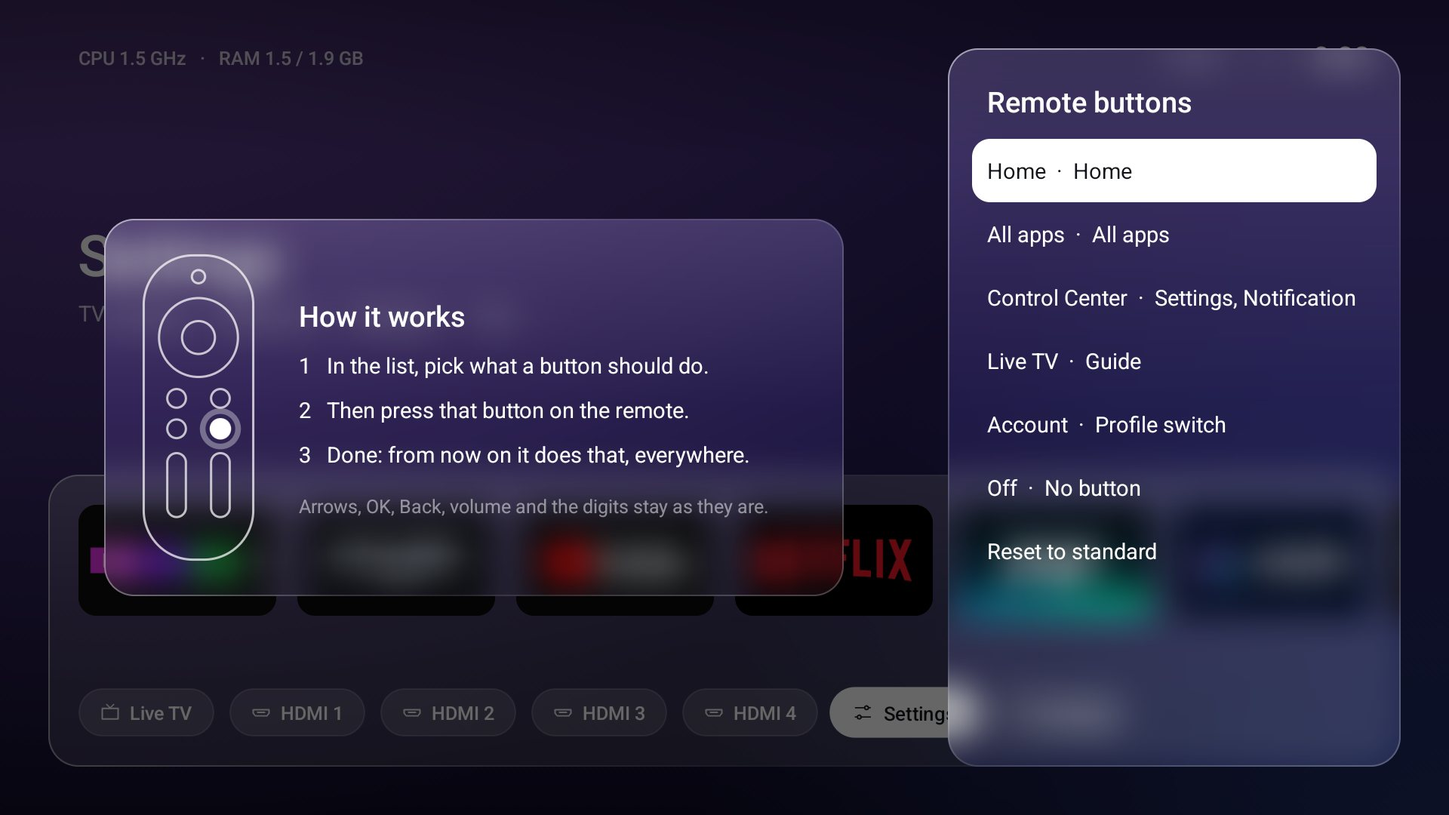
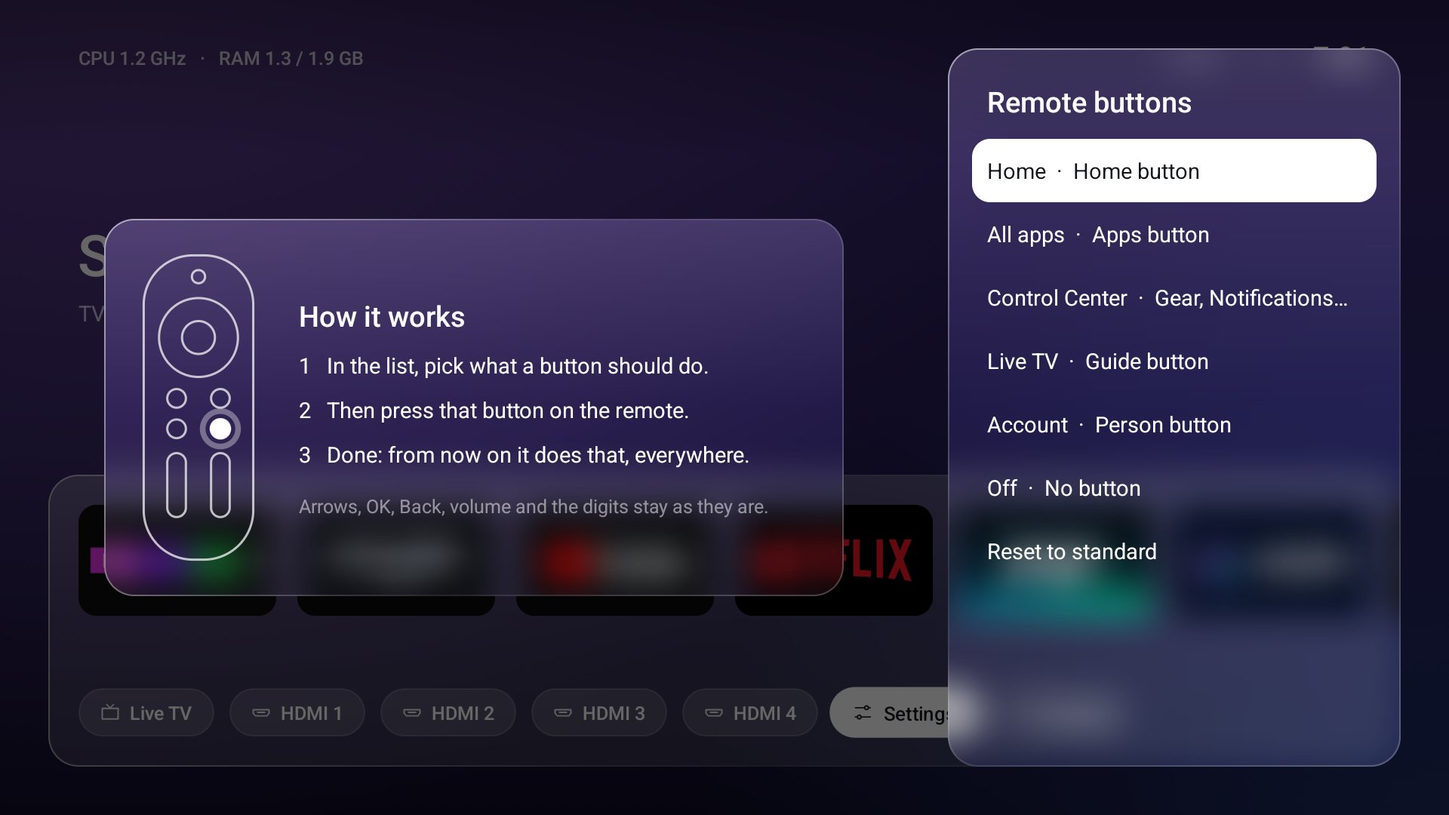
1.1.1: button names, casting cost, changelog, roadmap, issue forms
- Remote buttons are named by what they look like, in the TV's language
  (Gear, Person button, Red button...), not Android's names.
- docs/debloat.md: what keeping Chromecast built-in costs, measured on
  the tested TV (about 25 MB, under 0.1 % CPU while idle), and the
  YouTube TV code as the way without it.
- CHANGELOG.md, a roadmap in the README, and issue forms for "runs on my
  TV" and bugs.

diff --git a/src/com/delaybrain/glasshouse/Strings.java b/src/com/delaybrain/glasshouse/Strings.java
@@ -32,6 +32,8 @@ final class Strings {
         "Photo position", "Top", "Middle", "Bottom", "Whole photo", "Delete photos", "Delete photo", "Keep", "Can't delete this photo",
         "Delete this photo?", "Delete", "Cancel", "Reset all remote buttons to the standard ones?", "Reset",
         "How it works", "In the list, pick what a button should do.", "Then press that button on the remote.", "Done: from now on it does that, everywhere.", "Arrows, OK, Back, volume and the digits stay as they are.", "Press the button now", "Press the button on the remote for: %s", "Back: cancel", "Reset to standard", "Delete all photos", "Delete all %d photos?",
+        "Apps button", "Gear", "Notifications button", "Guide button", "Person button", "Menu button", "Red button", "Green button", "Yellow button", "Blue button", "Input button", "TV button", "Info button", "Subtitles button", "Play/Pause",
+        "Home button",
     };
 
     // Keyed by language ("de"), or language-country ("zh-TW") where a country writes it differently.
@@ -62,6 +64,8 @@ final class Strings {
             "موضع الصورة", "أعلى", "وسط", "أسفل", "الصورة كاملة", "حذف الصور", "حذف الصورة", "إبقاء", "تعذر حذف هذه الصورة",
             "هل تريد حذف هذه الصورة؟", "حذف", "إلغاء", "إعادة كل أزرار جهاز التحكم إلى الافتراضية؟", "إعادة تعيين",
             "طريقة الاستخدام", "اختر في القائمة ما يجب أن يفعله الزر.", "ثم اضغط ذلك الزر على جهاز التحكم.", "تم: من الآن يقوم الزر بذلك في كل مكان.", "الأسهم وOK والرجوع والصوت والأرقام تبقى كما هي.", "اضغط الزر الآن", "اضغط الزر على جهاز التحكم لـ: %s", "رجوع: إلغاء", "إعادة إلى الافتراضي", "حذف كل الصور", "حذف كل الصور (%d)؟",
+            "زر التطبيقات", "زر الترس", "زر الإشعارات", "زر الدليل", "زر الشخص", "زر القائمة", "الزر الأحمر", "الزر الأخضر", "الزر الأصفر", "الزر الأزرق", "زر الإدخال", "زر التلفزيون", "زر المعلومات", "زر الترجمة", "تشغيل/إيقاف مؤقت",
+            "زر الرئيسية",
         });
         LANGS.put("de", new String[] {
             "Einstellungen", "App hinzufügen", "Netzwerk", "Offline", "Ton", "Bild",
@@ -88,6 +92,8 @@ final class Strings {
             "Fotoposition", "Oben", "Mitte", "Unten", "Ganzes Foto", "Fotos löschen", "Foto löschen", "Behalten", "Dieses Foto kann nicht gelöscht werden",
             "Dieses Foto löschen?", "Löschen", "Abbrechen", "Alle Fernbedienungstasten auf Standard zurücksetzen?", "Zurücksetzen",
             "So geht's", "Wähle in der Liste, was eine Taste tun soll.", "Drück dann diese Taste auf der Fernbedienung.", "Fertig: Ab jetzt macht sie das, überall.", "Pfeile, OK, Zurück, Lautstärke und Ziffern bleiben, wie sie sind.", "Jetzt die Taste drücken", "Drück die Taste auf der Fernbedienung für: %s", "Zurück: abbrechen", "Auf Standard zurücksetzen", "Alle Fotos löschen", "Alle %d Fotos löschen?",
+            "Apps-Taste", "Zahnrad", "Benachrichtigungstaste", "Guide-Taste", "Personen-Taste", "Menütaste", "Rote Taste", "Grüne Taste", "Gelbe Taste", "Blaue Taste", "Eingangstaste", "TV-Taste", "Info-Taste", "Untertiteltaste", "Wiedergabe/Pause",
+            "Home-Taste",
         });
         LANGS.put("es", new String[] {
             "Ajustes", "Añadir app", "Red", "Sin conexión", "Sonido", "Imagen",
@@ -116,6 +122,8 @@ final class Strings {
             "Posición de la foto", "Arriba", "Centro", "Abajo", "Foto completa", "Eliminar fotos", "Eliminar foto", "Conservar", "No se puede eliminar esta foto",
             "¿Eliminar esta foto?", "Eliminar", "Cancelar", "¿Restablecer todos los botones del mando a los estándar?", "Restablecer",
             "Cómo funciona", "En la lista, elige qué debe hacer un botón.", "Después pulsa ese botón en el mando.", "Listo: a partir de ahora lo hace en todas partes.", "Las flechas, OK, Atrás, el volumen y los números no cambian.", "Pulsa el botón ahora", "Pulsa el botón del mando para: %s", "Atrás: cancelar", "Restablecer valores estándar", "Eliminar todas las fotos", "¿Eliminar las %d fotos?",
+            "Botón de apps", "Engranaje", "Botón de notificaciones", "Botón de guía", "Botón de persona", "Botón de menú", "Botón rojo", "Botón verde", "Botón amarillo", "Botón azul", "Botón de entrada", "Botón TV", "Botón de información", "Botón de subtítulos", "Reproducir/Pausa",
+            "Botón de inicio",
         });
         LANGS.put("fr", new String[] {
             "Paramètres", "Ajouter une app", "Réseau", "Hors ligne", "Son", "Image",
@@ -146,6 +154,8 @@ final class Strings {
             "Position de la photo", "Haut", "Milieu", "Bas", "Photo entière", "Supprimer des photos", "Supprimer la photo", "Garder", "Impossible de supprimer cette photo",
             "Supprimer cette photo ?", "Supprimer", "Annuler", "Rétablir tous les boutons de la télécommande par défaut ?", "Rétablir",
             "Comment faire", "Dans la liste, choisissez ce que doit faire un bouton.", "Puis appuyez sur ce bouton de la télécommande.", "C'est fait : il le fera désormais partout.", "Les flèches, OK, Retour, le volume et les chiffres ne changent pas.", "Appuyez sur le bouton maintenant", "Appuyez sur le bouton de la télécommande pour : %s", "Retour : annuler", "Rétablir par défaut", "Supprimer toutes les photos", "Supprimer les %d photos ?",
+            "Bouton Applis", "Roue dentée", "Bouton Notifications", "Bouton Guide", "Bouton Personne", "Bouton Menu", "Bouton rouge", "Bouton vert", "Bouton jaune", "Bouton bleu", "Bouton Source", "Bouton TV", "Bouton Info", "Bouton Sous-titres", "Lecture/Pause",
+            "Bouton Accueil",
         });
         LANGS.put("hi", new String[] {
             "सेटिंग्स", "ऐप जोड़ें", "नेटवर्क", "ऑफ़लाइन", "ध्वनि", "चित्र",
@@ -172,6 +182,8 @@ final class Strings {
             "फ़ोटो की जगह", "ऊपर", "बीच", "नीचे", "पूरी फ़ोटो", "फ़ोटो हटाएँ", "यह फ़ोटो हटाएँ", "रखें", "यह फ़ोटो हटाई नहीं जा सकती",
             "यह फ़ोटो हटाएँ?", "हटाएँ", "रद्द करें", "रिमोट के सभी बटन मानक पर वापस करें?", "रीसेट करें",
             "कैसे करें", "सूची में चुनें कि बटन क्या करे।", "फिर रिमोट पर वह बटन दबाएँ।", "हो गया: अब वह हर जगह यही करेगा।", "तीर, OK, वापस, आवाज़ और अंक जैसे हैं वैसे ही रहते हैं।", "अब बटन दबाएँ", "रिमोट पर इसके लिए बटन दबाएँ: %s", "वापस: रद्द करें", "मानक पर रीसेट करें", "सभी फ़ोटो हटाएँ", "सभी %d फ़ोटो हटाएँ?",
+            "ऐप्स बटन", "गियर", "सूचना बटन", "गाइड बटन", "व्यक्ति बटन", "मेनू बटन", "लाल बटन", "हरा बटन", "पीला बटन", "नीला बटन", "इनपुट बटन", "टीवी बटन", "जानकारी बटन", "सबटाइटल बटन", "चलाएँ/रोकें",
+            "होम बटन",
         });
         String[] id = {
             "Setelan", "Tambah aplikasi", "Jaringan", "Offline", "Suara", "Gambar",
@@ -200,6 +212,8 @@ final class Strings {
             "Posisi foto", "Atas", "Tengah", "Bawah", "Seluruh foto", "Hapus foto", "Hapus foto ini", "Simpan", "Foto ini tidak dapat dihapus",
             "Hapus foto ini?", "Hapus", "Batal", "Kembalikan semua tombol remote ke standar?", "Atur ulang",
             "Caranya", "Di daftar, pilih apa yang harus dilakukan tombol.", "Lalu tekan tombol itu di remote.", "Selesai: mulai sekarang tombol itu melakukannya di mana saja.", "Panah, OK, Kembali, volume, dan angka tetap seperti semula.", "Tekan tombolnya sekarang", "Tekan tombol di remote untuk: %s", "Kembali: batal", "Kembalikan ke standar", "Hapus semua foto", "Hapus semua %d foto?",
+            "Tombol aplikasi", "Roda gigi", "Tombol notifikasi", "Tombol panduan", "Tombol orang", "Tombol menu", "Tombol merah", "Tombol hijau", "Tombol kuning", "Tombol biru", "Tombol input", "Tombol TV", "Tombol info", "Tombol subtitel", "Putar/Jeda",
+            "Tombol beranda",
         };
         LANGS.put("id", id);
         LANGS.put("in", id); // Java's old code for Indonesian, which Android still reports
@@ -231,6 +245,8 @@ final class Strings {
             "Posizione della foto", "In alto", "Al centro", "In basso", "Foto intera", "Elimina foto", "Elimina questa foto", "Tieni", "Impossibile eliminare questa foto",
             "Eliminare questa foto?", "Elimina", "Annulla", "Ripristinare tutti i tasti del telecomando a quelli standard?", "Ripristina",
             "Come funziona", "Nell'elenco scegli cosa deve fare un tasto.", "Poi premi quel tasto sul telecomando.", "Fatto: da ora lo fa ovunque.", "Frecce, OK, Indietro, volume e numeri restano come sono.", "Premi il tasto ora", "Premi il tasto del telecomando per: %s", "Indietro: annulla", "Ripristina standard", "Elimina tutte le foto", "Eliminare tutte le %d foto?",
+            "Tasto app", "Ingranaggio", "Tasto notifiche", "Tasto guida", "Tasto persona", "Tasto menu", "Tasto rosso", "Tasto verde", "Tasto giallo", "Tasto blu", "Tasto sorgente", "Tasto TV", "Tasto info", "Tasto sottotitoli", "Riproduci/Pausa",
+            "Tasto Home",
         });
         LANGS.put("ja", new String[] {
             "設定", "アプリを追加", "ネットワーク", "オフライン", "サウンド", "画像",
@@ -254,6 +270,8 @@ final class Strings {
             "写真の位置", "上", "中央", "下", "写真全体", "写真を削除", "この写真を削除", "残す", "この写真は削除できません",
             "この写真を削除しますか？", "削除", "キャンセル", "リモコンのボタンをすべて標準に戻しますか？", "リセット",
             "使い方", "リストでボタンの役割を選びます。", "次にリモコンのそのボタンを押します。", "完了：これからはどこでもその操作になります。", "矢印、OK、戻る、音量、数字はそのままです。", "ボタンを押してください", "%s に使うリモコンのボタンを押してください", "戻る：キャンセル", "標準に戻す", "すべての写真を削除", "%d 枚の写真をすべて削除しますか？",
+            "アプリボタン", "歯車", "通知ボタン", "番組表ボタン", "人物ボタン", "メニューボタン", "赤ボタン", "緑ボタン", "黄ボタン", "青ボタン", "入力切替ボタン", "テレビボタン", "情報ボタン", "字幕ボタン", "再生/一時停止",
+            "ホームボタン",
         });
         LANGS.put("ko", new String[] {
             "설정", "앱 추가", "네트워크", "오프라인", "소리", "화면",
@@ -274,6 +292,8 @@ final class Strings {
             "사진 위치", "위", "가운데", "아래", "사진 전체", "사진 삭제", "이 사진 삭제", "유지", "이 사진은 삭제할 수 없습니다",
             "이 사진을 삭제할까요?", "삭제", "취소", "리모컨 버튼을 모두 기본값으로 되돌릴까요?", "초기화",
             "사용 방법", "목록에서 버튼이 할 일을 고르세요.", "그런 다음 리모컨에서 그 버튼을 누르세요.", "완료: 이제 어디서나 그 버튼이 그 일을 합니다.", "화살표, OK, 뒤로, 볼륨, 숫자는 그대로입니다.", "지금 버튼을 누르세요", "%s에 쓸 리모컨 버튼을 누르세요", "뒤로: 취소", "기본값으로 재설정", "모든 사진 삭제", "사진 %d장을 모두 삭제할까요?",
+            "앱 버튼", "톱니바퀴", "알림 버튼", "가이드 버튼", "사람 버튼", "메뉴 버튼", "빨간 버튼", "초록 버튼", "노란 버튼", "파란 버튼", "입력 버튼", "TV 버튼", "정보 버튼", "자막 버튼", "재생/일시정지",
+            "홈 버튼",
         });
         LANGS.put("nl", new String[] {
             "Instellingen", "App toevoegen", "Netwerk", "Offline", "Geluid", "Beeld",
@@ -302,6 +322,8 @@ final class Strings {
             "Fotopositie", "Boven", "Midden", "Onder", "Hele foto", "Foto's verwijderen", "Foto verwijderen", "Behouden", "Deze foto kan niet worden verwijderd",
             "Deze foto verwijderen?", "Verwijderen", "Annuleren", "Alle knoppen van de afstandsbediening terugzetten naar standaard?", "Terugzetten",
             "Zo werkt het", "Kies in de lijst wat een knop moet doen.", "Druk dan op die knop van de afstandsbediening.", "Klaar: vanaf nu doet hij dat overal.", "Pijlen, OK, Terug, volume en cijfers blijven zoals ze zijn.", "Druk nu op de knop", "Druk op de knop van de afstandsbediening voor: %s", "Terug: annuleren", "Terugzetten naar standaard", "Alle foto's verwijderen", "Alle %d foto's verwijderen?",
+            "Apps-knop", "Tandwiel", "Meldingenknop", "Gidsknop", "Persoonknop", "Menuknop", "Rode knop", "Groene knop", "Gele knop", "Blauwe knop", "Bronknop", "TV-knop", "Infoknop", "Ondertitelknop", "Afspelen/pauzeren",
+            "Homeknop",
         });
         LANGS.put("pl", new String[] {
             "Ustawienia", "Dodaj aplikację", "Sieć", "Offline", "Dźwięk", "Obraz",
@@ -330,6 +352,8 @@ final class Strings {
             "Położenie zdjęcia", "Góra", "Środek", "Dół", "Całe zdjęcie", "Usuń zdjęcia", "Usuń zdjęcie", "Zachowaj", "Nie można usunąć tego zdjęcia",
             "Usunąć to zdjęcie?", "Usuń", "Anuluj", "Przywrócić domyślne ustawienia wszystkich przycisków pilota?", "Przywróć",
             "Jak to działa", "Wybierz na liście, co ma robić przycisk.", "Potem naciśnij ten przycisk na pilocie.", "Gotowe: od teraz robi to wszędzie.", "Strzałki, OK, Wstecz, głośność i cyfry zostają bez zmian.", "Naciśnij teraz przycisk", "Naciśnij przycisk na pilocie dla: %s", "Wstecz: anuluj", "Przywróć domyślne", "Usuń wszystkie zdjęcia", "Usunąć wszystkie zdjęcia (%d)?",
+            "Przycisk aplikacji", "Koło zębate", "Przycisk powiadomień", "Przycisk przewodnika", "Przycisk osoby", "Przycisk menu", "Czerwony przycisk", "Zielony przycisk", "Żółty przycisk", "Niebieski przycisk", "Przycisk źródła", "Przycisk TV", "Przycisk info", "Przycisk napisów", "Odtwórz/Pauza",
+            "Przycisk ekranu głównego",
         });
         LANGS.put("pt", new String[] { // Brazilian Portuguese
             "Configurações", "Adicionar app", "Rede", "Sem conexão", "Som", "Imagem",
@@ -358,6 +382,8 @@ final class Strings {
             "Posição da foto", "Topo", "Centro", "Base", "Foto inteira", "Excluir fotos", "Excluir foto", "Manter", "Não foi possível excluir esta foto",
             "Excluir esta foto?", "Excluir", "Cancelar", "Voltar todos os botões do controle ao padrão?", "Redefinir",
             "Como funciona", "Na lista, escolha o que um botão deve fazer.", "Depois aperte esse botão no controle.", "Pronto: a partir de agora ele faz isso em qualquer lugar.", "Setas, OK, Voltar, volume e números continuam como estão.", "Aperte o botão agora", "Aperte o botão do controle para: %s", "Voltar: cancelar", "Voltar ao padrão", "Excluir todas as fotos", "Excluir todas as %d fotos?",
+            "Botão de apps", "Engrenagem", "Botão de notificações", "Botão de guia", "Botão de pessoa", "Botão de menu", "Botão vermelho", "Botão verde", "Botão amarelo", "Botão azul", "Botão de entrada", "Botão TV", "Botão de informações", "Botão de legendas", "Reproduzir/Pausar",
+            "Botão Início",
         });
         LANGS.put("ru", new String[] {
             "Настройки", "Добавить", "Сеть", "Нет сети", "Звук", "Изображение",
@@ -386,6 +412,8 @@ final class Strings {
             "Положение фото", "Сверху", "По центру", "Снизу", "Фото целиком", "Удалить фото", "Удалить это фото", "Оставить", "Не удаётся удалить это фото",
             "Удалить это фото?", "Удалить", "Отмена", "Вернуть все кнопки пульта к стандартным?", "Сбросить",
             "Как это работает", "Выберите в списке, что должна делать кнопка.", "Затем нажмите эту кнопку на пульте.", "Готово: теперь она делает это везде.", "Стрелки, OK, Назад, громкость и цифры остаются как есть.", "Нажмите кнопку", "Нажмите кнопку на пульте для: %s", "Назад: отмена", "Сбросить к стандартным", "Удалить все фото", "Удалить все фото (%d)?",
+            "Кнопка приложений", "Шестерёнка", "Кнопка уведомлений", "Кнопка гида", "Кнопка профиля", "Кнопка меню", "Красная кнопка", "Зелёная кнопка", "Жёлтая кнопка", "Синяя кнопка", "Кнопка источника", "Кнопка ТВ", "Кнопка инфо", "Кнопка субтитров", "Воспроизведение/пауза",
+            "Кнопка «Домой»",
         });
         LANGS.put("tr", new String[] {
             "Ayarlar", "Uygulama ekle", "Ağ", "Çevrimdışı", "Ses", "Görüntü",
@@ -413,6 +441,8 @@ final class Strings {
             "Fotoğraf konumu", "Üst", "Orta", "Alt", "Fotoğrafın tamamı", "Fotoğrafları sil", "Fotoğrafı sil", "Sakla", "Bu fotoğraf silinemiyor",
             "Bu fotoğraf silinsin mi?", "Sil", "İptal", "Tüm kumanda tuşları varsayılana döndürülsün mü?", "Sıfırla",
             "Nasıl yapılır", "Listeden bir tuşun ne yapacağını seçin.", "Sonra kumandada o tuşa basın.", "Tamam: artık her yerde bunu yapar.", "Oklar, OK, Geri, ses ve rakamlar olduğu gibi kalır.", "Şimdi tuşa basın", "Kumandada şunun için tuşa basın: %s", "Geri: iptal", "Varsayılana sıfırla", "Tüm fotoğrafları sil", "%d fotoğrafın tümü silinsin mi?",
+            "Uygulamalar tuşu", "Dişli", "Bildirim tuşu", "Rehber tuşu", "Kişi tuşu", "Menü tuşu", "Kırmızı tuş", "Yeşil tuş", "Sarı tuş", "Mavi tuş", "Kaynak tuşu", "TV tuşu", "Bilgi tuşu", "Altyazı tuşu", "Oynat/Duraklat",
+            "Ana ekran tuşu",
         });
         LANGS.put("uk", new String[] {
             "Налаштування", "Додати додаток", "Мережа", "Офлайн", "Звук", "Зображення",
@@ -440,6 +470,8 @@ final class Strings {
             "Положення фото", "Згори", "По центру", "Знизу", "Фото повністю", "Видалити фото", "Видалити це фото", "Залишити", "Не вдається видалити це фото",
             "Видалити це фото?", "Видалити", "Скасувати", "Повернути всі кнопки пульта до стандартних?", "Скинути",
             "Як це працює", "Виберіть у списку, що має робити кнопка.", "Потім натисніть цю кнопку на пульті.", "Готово: тепер вона робить це всюди.", "Стрілки, OK, Назад, гучність і цифри лишаються як є.", "Натисніть кнопку", "Натисніть кнопку на пульті для: %s", "Назад: скасувати", "Скинути до стандартних", "Видалити всі фото", "Видалити всі фото (%d)?",
+            "Кнопка застосунків", "Шестірня", "Кнопка сповіщень", "Кнопка гіда", "Кнопка профілю", "Кнопка меню", "Червона кнопка", "Зелена кнопка", "Жовта кнопка", "Синя кнопка", "Кнопка джерела", "Кнопка ТБ", "Кнопка інфо", "Кнопка субтитрів", "Відтворення/пауза",
+            "Кнопка «Додому»",
         });
         LANGS.put("zh", new String[] { // Simplified Chinese
             "设置", "添加应用", "网络", "未联网", "声音", "图像",
@@ -460,6 +492,8 @@ final class Strings {
             "照片位置", "顶部", "居中", "底部", "完整照片", "删除照片", "删除这张照片", "保留", "无法删除这张照片",
             "删除这张照片？", "删除", "取消", "将所有遥控器按钮恢复为默认？", "重置",
             "使用方法", "在列表中选择按钮要做的事。", "然后按遥控器上的那个按钮。", "完成：从现在起它在任何地方都这样做。", "方向键、OK、返回、音量和数字键保持不变。", "现在按下按钮", "按遥控器上的按钮用于：%s", "返回：取消", "恢复默认", "删除所有照片", "删除全部 %d 张照片？",
+            "应用按钮", "齿轮", "通知按钮", "节目指南按钮", "人物按钮", "菜单按钮", "红色按钮", "绿色按钮", "黄色按钮", "蓝色按钮", "信号源按钮", "电视按钮", "信息按钮", "字幕按钮", "播放/暂停",
+            "主页按钮",
         });
         String[] hant = { // Traditional Chinese
             "設定", "新增應用程式", "網路", "離線", "音效", "影像",
@@ -480,6 +514,8 @@ final class Strings {
             "相片位置", "頂部", "置中", "底部", "完整相片", "刪除相片", "刪除這張相片", "保留", "無法刪除這張相片",
             "刪除這張相片？", "刪除", "取消", "將所有遙控器按鈕恢復為預設？", "重設",
             "使用方式", "在清單中選擇按鈕要做的事。", "然後按遙控器上的那個按鈕。", "完成：從現在起它在任何地方都這樣做。", "方向鍵、OK、返回、音量和數字鍵維持不變。", "現在按下按鈕", "按遙控器上的按鈕用於：%s", "返回：取消", "恢復預設", "刪除所有相片", "刪除全部 %d 張相片？",
+            "應用程式按鈕", "齒輪", "通知按鈕", "節目指南按鈕", "人物按鈕", "選單按鈕", "紅色按鈕", "綠色按鈕", "黃色按鈕", "藍色按鈕", "訊號源按鈕", "電視按鈕", "資訊按鈕", "字幕按鈕", "播放/暫停",
+            "主畫面按鈕",
         };
         LANGS.put("zh-TW", hant);
         LANGS.put("zh-HK", hant);

diff --git a/src/com/delaybrain/glasshouse/RemoteKeys.java b/src/com/delaybrain/glasshouse/RemoteKeys.java
@@ -108,8 +108,19 @@ final class RemoteKeys {
         }
     }
 
-    // A button's name as Android calls it: KEYCODE_PROG_RED is "Prog red".
+    // The names of the usual remote buttons, by what they look like, in the TV's language (Strings).
+    private static final int[] NAMED = {KeyEvent.KEYCODE_HOME, KeyEvent.KEYCODE_ALL_APPS, KeyEvent.KEYCODE_SETTINGS,
+            KeyEvent.KEYCODE_NOTIFICATION, KeyEvent.KEYCODE_GUIDE, KeyEvent.KEYCODE_PROFILE_SWITCH, KeyEvent.KEYCODE_MENU,
+            KeyEvent.KEYCODE_PROG_RED, KeyEvent.KEYCODE_PROG_GREEN, KeyEvent.KEYCODE_PROG_YELLOW, KeyEvent.KEYCODE_PROG_BLUE,
+            KeyEvent.KEYCODE_TV_INPUT, KeyEvent.KEYCODE_TV, KeyEvent.KEYCODE_INFO, KeyEvent.KEYCODE_CAPTIONS,
+            KeyEvent.KEYCODE_MEDIA_PLAY_PAUSE};
+    private static final String[] NAMED_AS = {"Home button", "Apps button", "Gear", "Notifications button", "Guide button",
+            "Person button", "Menu button", "Red button", "Green button", "Yellow button", "Blue button", "Input button",
+            "TV button", "Info button", "Subtitles button", "Play/Pause"};
+
+    // A button's name: the usual ones as above, any other as Android calls it (KEYCODE_BUTTON_5 is "Button 5").
     static String name(int code) {
+        for (int i = 0; i < NAMED.length; i++) if (NAMED[i] == code) return Strings.t(NAMED_AS[i]);
         String s = KeyEvent.keyCodeToString(code);
         if (s.startsWith("KEYCODE_")) s = s.substring(8);
         s = s.replace('_', ' ').toLowerCase(java.util.Locale.ROOT);

diff --git a/CHANGELOG.md b/CHANGELOG.md
@@ -1,0 +1,33 @@
+# Changelog
+
+What changed in each release. The APKs are in [Releases](https://github.com/Delaybrain/glasshouse/releases);
+plans are in the README's [Roadmap](README.md#roadmap).
+
+## 1.1.1 (2026-11-11)
+
+- **Remote buttons by their names.** Settings → Remote buttons says *Gear*, *Person button* or
+  *Red button* in the TV's language, not Android's names like `NOTIFICATION` or `PROG_RED`.
+- **Casting in the docs.** What keeping Chromecast built-in (`mediashell`) costs, measured on
+  the tested TV, and that without it the TV doesn't show up when you cast from a phone.
+- **Changelog, roadmap and issue forms** for reporting a TV it runs on, or a bug.
+
+## 1.1.0 (2026-11-06)
+
+- **Remote buttons set on the TV.** Settings → Remote buttons: pick a job (Home, All apps, Control
+  Center, Live TV, Account, or Off) and press the button that should do it. A card beside the list
+  shows how. Until something is changed the standard buttons stay, so a remote that works keeps
+  working; *Reset to standard* asks first.
+- **Photo position** for the wallpaper and the screensaver: top, middle, bottom, or the whole photo
+  on a soft copy of itself. Screensaver photos of another shape were stretched before.
+- **Delete photos**, one or all, each after one question that shows the photo.
+- **Home closes every menu at once**; Back still goes one step.
+- Menus' glass follows the wallpaper while you try wallpapers.
+- An HDMI input's green dot goes out 10 minutes after its picture was last seen.
+- On MediaTek TVs with Google's voice search off, the voice button's pairing page closes itself.
+
+## 1.0.0 (2026-11-06)
+
+The first release: the home screen with its glass dock and shelf, HDMI inputs with a live preview,
+Control Center, tile looks, status bar, recently used apps, kids lock, photos and backups over
+Wi-Fi from a phone, screensaver, all labels in 18 languages, and the install, check and undo
+scripts.

diff --git a/README.md b/README.md
@@ -199,6 +199,16 @@ Glasshouse started as part of making a slow TV fast again. [docs/debloat.md](doc
 - **What apps can't do:** "Continue watching" rows from Netflix and others, CPU use in percent, and temperatures are closed to apps on Android TV. Glasshouse shows what it can (CPU speed, RAM).
 - **Privacy:** nothing leaves your home network. The photo web server runs only while its card is open and takes only pictures or a backup.
 
+## Roadmap
+
+What's planned, roughly in this order. What changed so far is in the [changelog](CHANGELOG.md).
+
+- **Measured against other home screens:** the same test (smoothness, start time, memory) for Google TV's home screen and other launchers, as a table here.
+- **More TVs tested:** runs on yours? Tell us with the [device report](https://github.com/Delaybrain/glasshouse/issues/new?template=device.yml), it goes into a list here.
+- **Updates from the TV:** Glasshouse tells you when a new version is out. Only once remote buttons have been proven on more remotes, so an update never surprises a setup that works.
+
+Ideas and bugs: [open an issue](https://github.com/Delaybrain/glasshouse/issues/new/choose).
+
 ## Disclaimer
 
 Glasshouse and its scripts are provided "as is", without warranty of any kind. You use them at your own risk and are responsible for what you run on your TV. The authors and contributors are not liable for any damage, data loss, broken or unusable devices, lost warranty, or other harm arising from using them, as far as the law allows. Nothing here is support from, or approved by, your TV's maker or Google. If you're not comfortable fixing a TV that won't start (adb, factory reset), don't turn off system apps. The full terms are in the [LICENSE](LICENSE).

diff --git a/docs/debloat.md b/docs/debloat.md
@@ -55,6 +55,13 @@ Casting is not one app you can spot by name. On Google TV the receiver is
 video from your phone and confirm the TV still shows up. If it does not, `pm enable
 com.google.android.apps.mediashell` and reboot. On a TV that never casts, it is safe off.
 
+Without it the TV is simply missing when you tap the cast button in YouTube, Netflix or another
+app on your phone. Keeping it costs little: on the tested PEAQ (1.9 GB RAM) its one process takes
+about 25 MB of memory (PSS; 90 MB counting shared libraries) and, while nothing is cast, under 0.1 %
+of one CPU core. It starts when the TV starts, so after turning it back on, restart the TV once.
+For YouTube alone there is a way without it: in YouTube on the TV, *Settings → Link with TV code*,
+and on the phone *Settings → Watch on TV → Enter TV code*.
+
 ## A package name is not always the app
 
 A package name doesn't always say what the app is. Prime Video, for example, installs as
@@ -134,7 +141,7 @@ Turn these off only if you do not use the feature:
 
 | package | feature |
 | --- | --- |
-| `com.google.android.apps.mediashell` | casting from your phone |
+| `com.google.android.apps.mediashell` | casting from your phone (about 25 MB of memory, no CPU while idle) |
 | `com.google.android.katniss` | Google TV search and voice |
 | `com.google.android.tv.assistant` | Google Assistant |
 | `com.google.android.marvin.talkback` | TalkBack screen reader |
